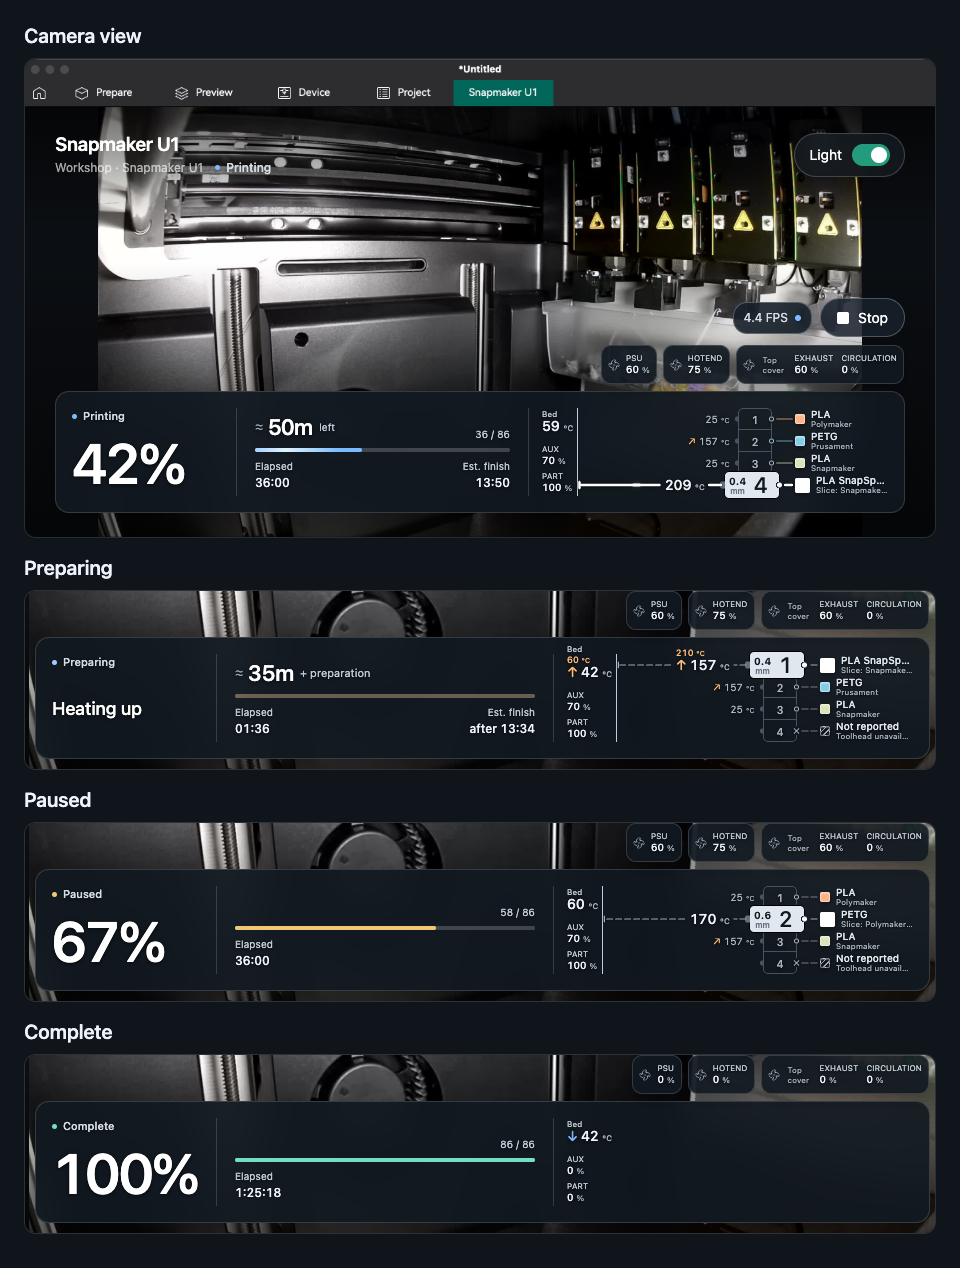
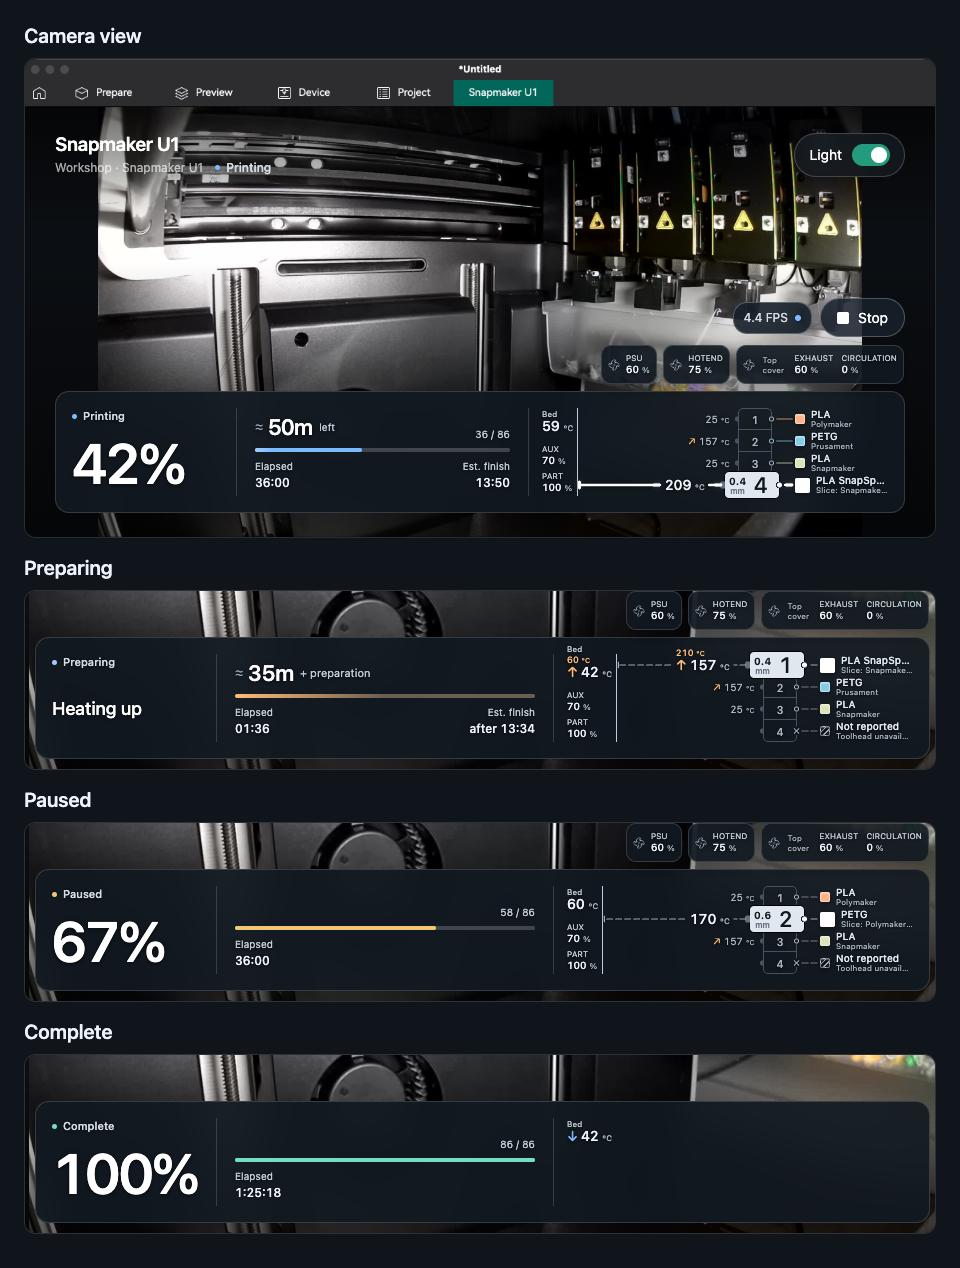
fix(ui): hide fans for finished and idle jobs

diff --git a/tests/page.test.ts b/tests/page.test.ts
@@ -1151,3 +1151,31 @@ test('fan islands show reported PSU, hotend, and top cover status and clear unav
   publish({ generation: 1, stats: { ...metrics, psu_fan: { speed: 2 } } });
   assert.equal(document.querySelector('.fan-islands'), null);
 });
+
+test('all fan readouts are hidden after a job ends and while idle', () => {
+  selectPrinter();
+  const fans = {
+    aux_fan: { speed: 0.7, rpm: 3200 },
+    part_fan: { speed: 1, rpm: 8200 },
+    psu_fan: { speed: 0.6 },
+    hotend_fan: { speed: 0.75, rpm: 16761 },
+    exhaust_fan: { speed: 0.6 },
+    circulation_fan: { speed: 0.5, rpm: 1500 },
+  };
+  for (const state of [
+    'printing',
+    'paused',
+    'complete',
+    'standby',
+    'cancelled',
+    'error',
+    'unavailable',
+    'printing',
+  ]) {
+    publish({ generation: 1, stats: { ...metrics, ...fans, state } });
+    const active = state === 'printing' || state === 'paused';
+    assert.equal(document.querySelectorAll('.fan-speed').length, active ? 6 : 0, state);
+    assert.equal(document.querySelectorAll('.fan-island').length, active ? 3 : 0, state);
+    assert.equal(Boolean(document.querySelector('.bed-fans')), active, state);
+  }
+});

diff --git a/src/ui/PrintStats.svelte b/src/ui/PrintStats.svelte
@@ -190,7 +190,7 @@
   data-state={printState}
 >
   <h2 id="stats-title">Print statistics</h2>
-  {#if !missing && [stats?.psu_fan, stats?.hotend_fan, stats?.exhaust_fan, stats?.circulation_fan].some(reportedFan)}
+  {#if activePrint && [stats?.psu_fan, stats?.hotend_fan, stats?.exhaust_fan, stats?.circulation_fan].some(reportedFan)}
     <div class="fan-islands" aria-label="Additional cooling fans">
       {#if reportedFan(stats?.psu_fan)}<dl class="fan-island">
           <FanIcon size={12} /><FanSpeed label="PSU" value={stats?.psu_fan} />
@@ -304,7 +304,7 @@
       <dd id="bed-value" hidden={!bedTemperature.visible}>
         {@render heaterTemperature(bedTemperature)}
       </dd>
-      {#if !missing}<div class="bed-fans">
+      {#if activePrint}<div class="bed-fans">
           <FanSpeed label="Aux" value={stats?.aux_fan} /><FanSpeed
             label="Part"
             value={stats?.part_fan}
